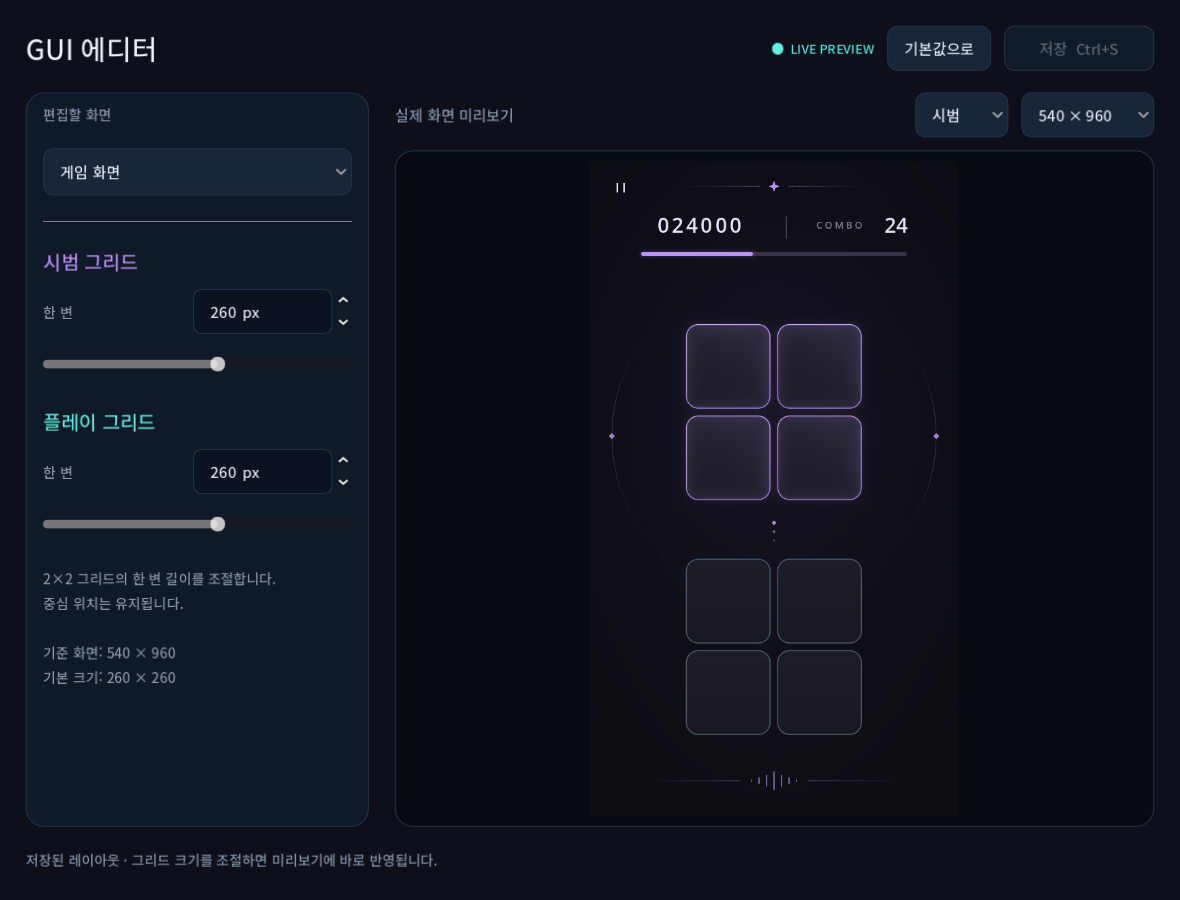
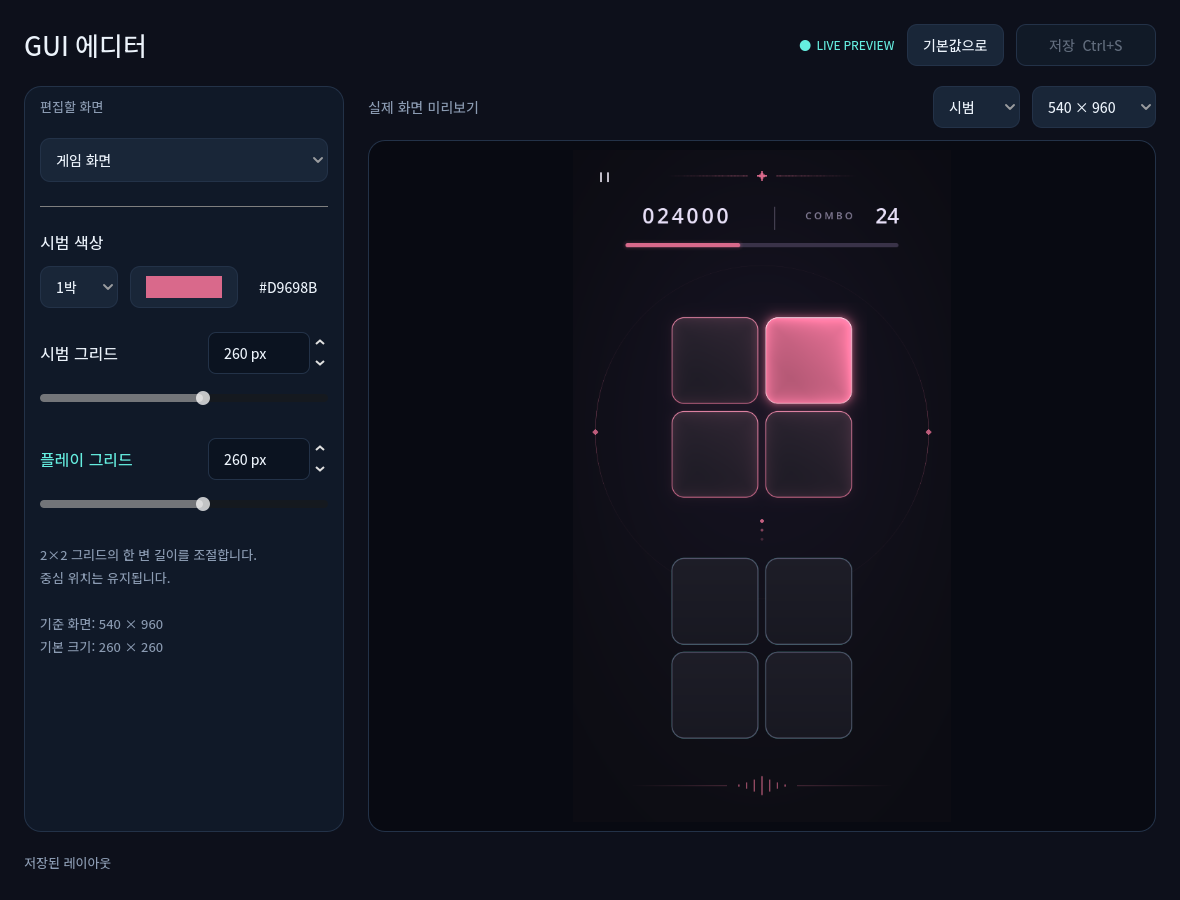
1박 라즈베리 시범과 박별 색상 팔레트 편집 추가

diff --git a/README.md b/README.md
@@ -51,13 +51,15 @@ godot --path . -- --chart /absolute/path/song.json
 
 `start-gui-editor.cmd` 또는 게임 일시정지 메뉴의 **GUI ↗**로 별도 창을 엽니다. 왼쪽에서 **시범 그리드 / 플레이 그리드**의 한 변 길이를 슬라이더나 숫자로 각각 조절하면, 오른쪽의 실제 게임 UI에 바로 반영됩니다. 2×2 칸 수와 중심 위치는 유지하며, 540×960 기준으로 180~320px를 지원합니다. 기본값은 두 그리드 모두 260px입니다.
 
-미리보기의 **시범 / 플레이**로 활성 색상을 바꾸고, 화면 크기 목록으로 일반·긴 세로 화면, 태블릿, 가로 화면을 확인할 수 있습니다. **편집할 화면 → 시작 화면**에서는 실제 타이틀을 미리 봅니다.
+**게임 화면 → 시범 색상**에서 **4박 / 2박 / 1박**을 고른 뒤 옆의 색상 칸을 누르면 팔레트가 열립니다. 색을 직접 고르거나 RGB·HSV 수치 또는 HEX 코드를 입력하세요. **시범** 미리보기에서는 오른쪽 위 타일을 켜 둬서 편집 중인 색과 테두리, 후광을 바로 비교할 수 있습니다. 기본색은 4박 보라 `#BB92F5`, 2박 코랄 `#F47668`, 1박 라즈베리 레드 `#D9698B`입니다.
 
-**편집할 화면 → 전환 화면**에서 **4박 → 2박** 또는 **2박 → 4박**을 선택하고 **재생**을 누르면, 플레이 마지막 두 박의 경고부터 다음 시범 첫 박까지 한 번 재생한 뒤 멈춥니다. **시범 전 소등 간격**은 시범 직전에 경고를 꺼 둘 시간입니다. 기본값인 1박에서는 0.4박 동안 깜빡이며 켜지고, 0.2박 동안 켜져 있다가 0.4박 동안 깜빡이며 꺼집니다. 남은 1박은 경고 없이 플레이합니다.
+미리보기의 **시범 / 플레이**로 활성 그리드를 바꾸고, 화면 크기 목록으로 일반·긴 세로 화면, 태블릿, 가로 화면을 확인할 수 있습니다. **편집할 화면 → 시작 화면**에서는 실제 타이틀을 미리 봅니다.
+
+**편집할 화면 → 전환 화면**에서 4박·2박·1박 사이의 전환 방향을 선택하고 **재생**을 누르면, 현재 플레이의 마지막 최대 두 박부터 다음 시범 첫 박까지 한 번 재생합니다. **시범 전 소등 간격**은 시범 직전에 경고를 꺼 둘 시간입니다. 예고 구간이 두 박이고 소등 간격이 기본값인 1박이면, 0.4박 점등·0.2박 유지·0.4박 소등 후 마지막 1박은 경고 없이 플레이합니다. 1박 플레이 직후 다음 시범이 이어질 때는 소등 간격을 1박 미만으로 두면 경고가 보입니다.
 
 **느낌표 크기**, **깜빡임 길이**(박), **깜빡임 강도**(%)를 조절하고 **재생**을 다시 눌러 확인하세요. 깜빡임 길이와 강도는 켜질 때와 꺼질 때 모두 적용됩니다. 둘 중 하나를 0으로 두면 일정한 밝기로 켜져 있다가 소등 간격이 시작되는 순간 꺼집니다. **미리보기 BPM**은 에디터의 재생 속도에만 적용되며 실제 플레이에서는 채보 BPM을 따릅니다.
 
-**저장 / Ctrl+S**를 누르면 `assets/ui/gui_layout.tres`에 저장합니다. 실행 중인 게임 창으로 돌아오면 저장값을 다시 읽고, 다음 게임 실행과 APK 빌드에도 같은 값이 적용됩니다. **기본값으로**는 게임 화면에서 두 그리드를 260px로, 전환 화면에서 느낌표 크기를 48px, 깜빡임 길이를 0.4박, 강도를 65%, 시범 전 소등 간격을 1박으로 되돌립니다. 게임에 반영하려면 저장하세요.
+**저장 / Ctrl+S**를 누르면 `assets/ui/gui_layout.tres`에 저장합니다. 실행 중인 게임 창으로 돌아오면 저장값을 다시 읽고, 다음 게임 실행과 APK 빌드에도 같은 값이 적용됩니다. **기본값으로**는 게임 화면에서 박별 색상과 두 그리드 크기(260px)를, 전환 화면에서 느낌표 크기(48px), 깜빡임 길이(0.4박), 강도(65%), 시범 전 소등 간격(1박)을 복원합니다. 게임에 반영하려면 저장하세요.
 
 [GUI 에디터 화면](docs/screenshots/gui-editor.png) · [전환 화면 편집](docs/screenshots/transition-editor.png)
 
@@ -96,9 +98,9 @@ godot --headless --path . --export-debug Android builds/android/RINNER-debug.apk
 - **Esc:** 일시정지 / 이어서 재생
 - 아래쪽 그리드는 키보드, 게임패드, 마우스, 멀티터치로 입력할 수 있습니다.
 - **입력 진동 강도**는 **소리 · 타이밍 설정**에서 0~100%로 조절합니다. 기본값은 0%(꺼짐)입니다. 켜 두면 직접 누른 타일이 Perfect, Good, OK일 때 그 버튼을 누른 게임패드나 터치한 휴대폰에서 짧게 진동합니다. 진동 세기는 기기와 드라이버의 지원 범위를 따릅니다.
-- 위쪽 그리드가 **보라색(4박 등 일반 패턴)** 또는 **붉은색(길이 2박 패턴)**으로 빛날 때 위치와 박자를 기억하고, 아래쪽 **청록색** 그리드가 활성화되면 입력합니다. 패턴 색상은 실제 시범 시작에 맞춰 전환합니다. 한 곡에 4박과 2박을 섞을 수 있고 BPM과 판정 기준은 동일합니다. 두 그리드는 기본 크기가 같고 GUI 에디터에서 각각 조절할 수 있으며, 타일에는 키 안내나 번호가 표시되지 않습니다. 재현 구간에는 정답 노트가 표시되지 않습니다.
+- 위쪽 그리드가 빛날 때 위치와 박자를 기억하고, 아래쪽 **청록색** 그리드가 활성화되면 입력합니다. 시범의 기본색은 **4박 보라, 2박 코랄, 1박 라즈베리 레드**이며, 다른 길이는 4박 색상을 사용합니다. 한 곡에서 섞어도 BPM과 판정 기준은 동일합니다. 두 그리드는 기본 크기가 같고 GUI 에디터에서 각각 조절할 수 있으며, 타일에는 키 안내나 번호가 표시되지 않습니다. 재현 구간에는 정답 노트가 표시되지 않습니다.
 - 판정은 Perfect ±50ms, Good ±100ms, OK ±150ms입니다. 노트를 놓치거나 재현 구간에서 잘못된 칸·쉼표에 입력하면 모두 Miss이며 정확도가 낮아집니다.
-- 4박과 2박 사이의 전환을 앞두면 다음 시범 시작 전 두 박 중 플레이 구간에 시범 그리드 위의 둥근 삼각형 느낌표가 켜집니다. 주황빛 코랄은 다음 2박, 보라는 다음 4박을 뜻합니다. 네온관의 중심선이 짧게 빛나고 한 번 약해졌다가, 삼각형과 느낌표 둘레에 후광이 퍼지며 점등됩니다. 경고등 바로 아래 두 타일의 안쪽 윗모서리에도 같은 색이 은은하게 비치며 함께 깜빡입니다. 소등은 점등 애니메이션을 같은 길이로 역재생합니다. 경고가 꺼지면 시범 전 소등 간격이 시작됩니다.
+- 4박·2박·1박 사이의 전환을 앞두면 다음 시범 시작 전 최대 두 박 중 플레이 구간에 시범 그리드 위의 둥근 삼각형 느낌표가 켜집니다. 경고는 다음 시범의 색을 따르며, 2박 기본 코랄의 경고등은 기존 주황빛입니다. 네온관의 중심선이 짧게 빛나고 한 번 약해졌다가, 삼각형과 느낌표 둘레에 후광이 퍼지며 점등됩니다. 경고등 바로 아래 두 타일의 안쪽 윗모서리에도 같은 색이 은은하게 비치며 함께 깜빡입니다. 소등은 점등 애니메이션을 같은 길이로 역재생합니다.
 - 판정은 입력한 **타일 안**에만 잠깐 나타납니다. PERFECT는 청록색 체크와 확산, GOOD은 하늘색 링, OK는 연한 금색 링, MISS는 분홍색 모서리로 구분합니다. 같은 타일의 새 판정은 이전 효과를 교체하며, 모든 판정은 0.44초 이내에 사라집니다.
 - 상단에는 점수, 콤보, 얇은 진행 게이지와 일시정지 아이콘만 표시합니다. **다시 시작 / 채보 열기 / 메이커 / 소리·타이밍 설정**은 일시정지 메뉴에서 사용할 수 있습니다. 결과와 정확도는 곡이 끝난 뒤 메뉴에서 확인합니다.
 - 마지막 패턴의 판정 유예 시간이 끝나면 입력과 점수를 확정하고, 남은 음악은 끝까지 재생한 뒤 결과를 표시합니다. 반대로 채보가 음원보다 길면 음악이 끝난 뒤 무음 상태로 시범·재현과 노트 효과음을 계속 진행합니다. 진행 게이지는 음원과 채보 중 더 긴 전체 플레이 구간을 기준으로 움직입니다. 후주나 무음 구간에서도 일시정지·재개·다시 시작할 수 있습니다.
